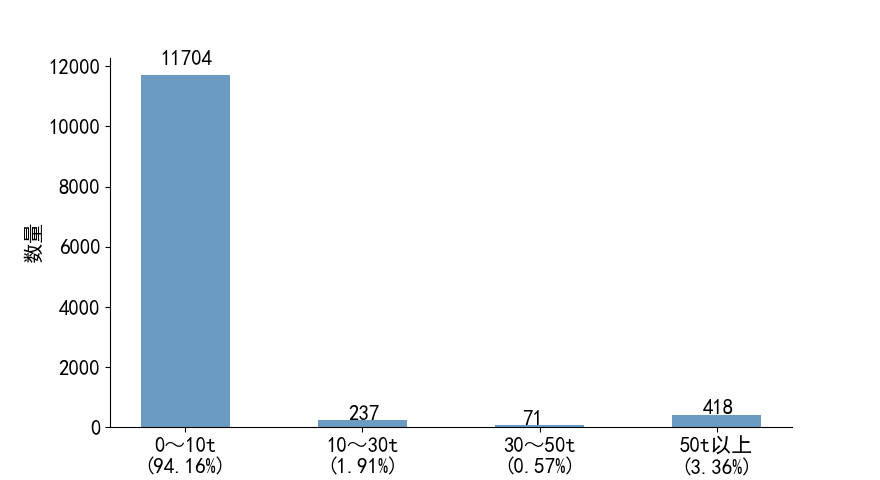
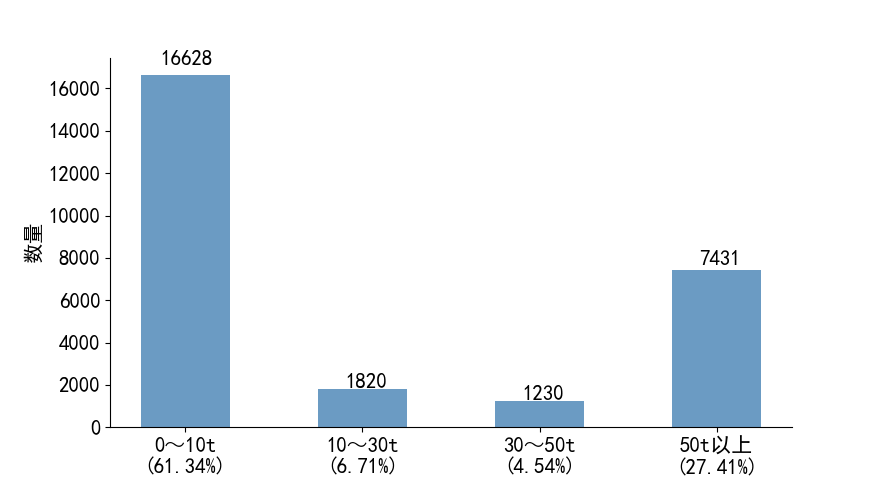
更新到3.1~3.20数据

diff --git a/HelinConsoleApp/Program.cs b/HelinConsoleApp/Program.cs
@@ -81,8 +81,8 @@ namespace HelinConsoleApp
             var Gross_Load_Dist = new List<int>();
             var Gross_Load_Dist2 = new List<int>();
 
-            var StartDataTime = new DateTime(2020, 2, 1, 0, 0, 0);
-            var FinishDataTime = new DateTime(2020, 3, 1, 0, 0, 0);
+            var StartDataTime = new DateTime(2020, 3, 1, 0, 0, 0);
+            var FinishDataTime = new DateTime(2020, 3, 21, 0, 0, 0);
 
             //Expression<Func<HS_Data_201908, bool>> dataPredicate = x => x.HSData_DT >= StartDataTime && x.HSData_DT <= FinishDataTime;
 
@@ -92,7 +92,7 @@ namespace HelinConsoleApp
                 {
                     #region HS_DataForAnalysis
                     var HS_DataForAnalysis = (
-                        from c in db.HS_Data_202002
+                        from c in db.HS_Data_202003
                         select new MyHS_Data
                         {
                             Acceleration = c.Acceleration,
@@ -135,7 +135,7 @@ namespace HelinConsoleApp
                             Gross_Load = c.Gross_Load
                         }
                         ).Union(
-                        from e in db.HS_Data_202003
+                        from e in db.HS_Data_202004
                         select new MyHS_Data
                         {
                             Acceleration = e.Acceleration,

diff --git a/PythonApplication/PythonApplication.py b/PythonApplication/PythonApplication.py
@@ -88,10 +88,10 @@ def plotItem(plt,itemChosen):
     #不同时间段车辆总数
     #不同速度车辆数及比例
     y_dataList=[
-    [10488,519,38,7],
-    [11704,237,71,418],
-    [182,59,99,1096,3688,3643,3756,3912,3630,2021,821,575],
-    [127,3779,14766,4810]
+    [17905,7073,402,89],
+    [16628,1820,1230,7431],
+    [1565,1394,1142,3824,7212,6180,6746,6989,7748,4736,3034,2008],
+    [237,11893,34710,5738]
     ]
 
     ## 包含每个柱子对应值的序列
